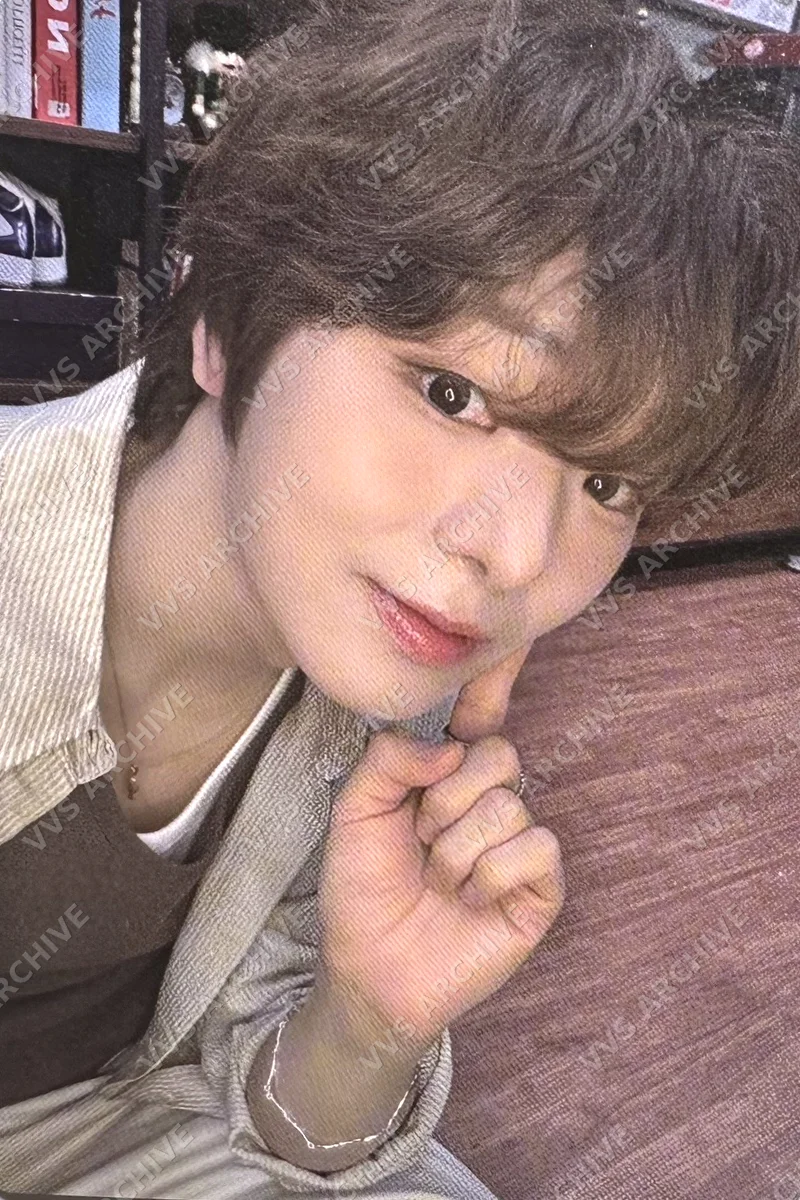
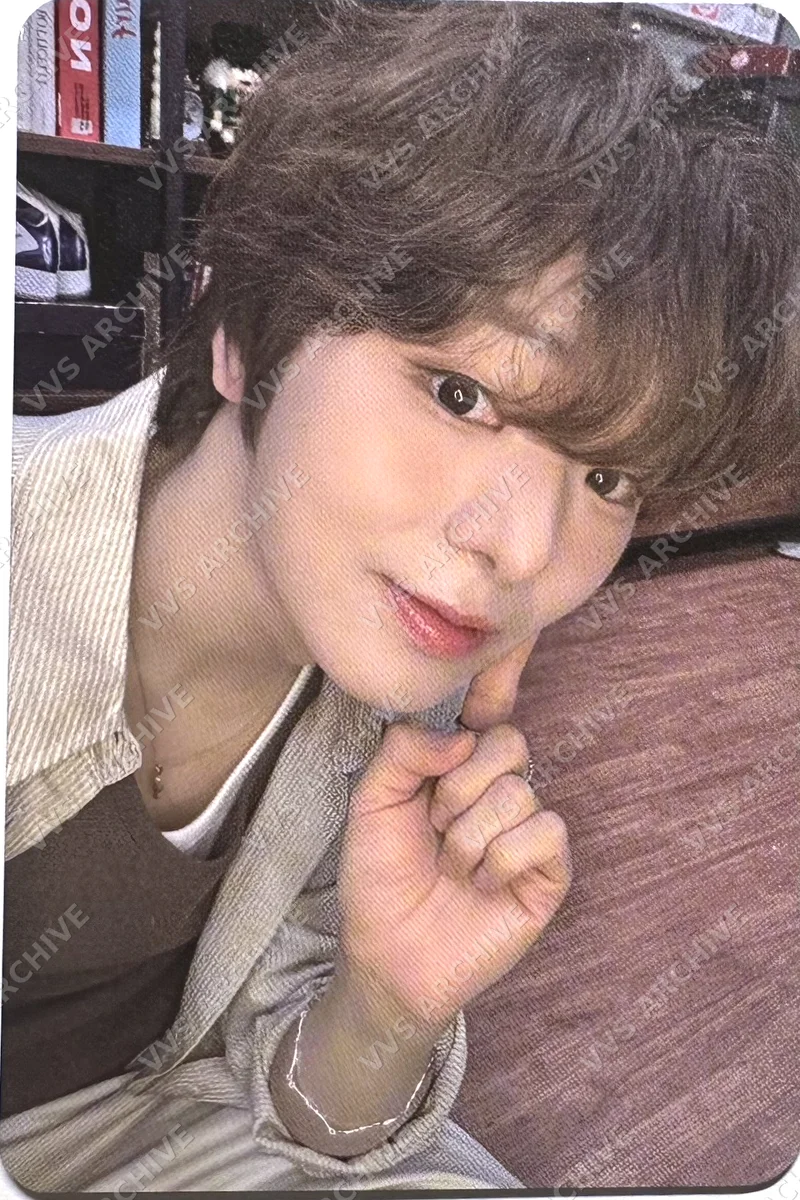
Crop

diff --git a/scripts/card_process.py b/scripts/card_process.py
@@ -29,18 +29,6 @@ def four_point_transform(image, pts):
     m = cv2.getPerspectiveTransform(rect, dst)
     return cv2.warpPerspective(image, m, (max_w, max_h))
 
-def center_crop_fallback(img):
-    h, w = img.shape[:2]
-    current_ratio = w / float(h)
-    if current_ratio > TARGET_ASPECT_RATIO:
-        target_w = int(h * TARGET_ASPECT_RATIO)
-        offset_x = (w - target_w) // 2
-        return img[:, offset_x:offset_x + target_w]
-    else:
-        target_h = int(w / TARGET_ASPECT_RATIO)
-        offset_y = (h - target_h) // 2
-        return img[offset_y:offset_y + target_h, :]
-
 def apply_white_balance(bgr_img):
     h, w = bgr_img.shape[:2]
     corner_h = int(h * 0.12)
@@ -84,7 +72,7 @@ def apply_white_balance(bgr_img):
     
     return np.clip(result, 0, 255).astype(np.uint8)
 
-def crop_card(image_input):
+def crop_card(image_input, debug_dir=None):
     if isinstance(image_input, str):
         img = cv2.imread(image_input)
     else:
@@ -97,41 +85,59 @@ def crop_card(image_input):
     img_area = h * w
     
     gray = cv2.cvtColor(img, cv2.COLOR_BGR2GRAY)
-    blurred = cv2.GaussianBlur(gray, (5, 5), 0)
+    filtered = cv2.bilateralFilter(gray, 11, 35, 35)
+    edged = cv2.Canny(filtered, 15, 60)
     
-    _, thresh = cv2.threshold(blurred, 0, 255, cv2.THRESH_BINARY_INV + cv2.THRESH_OTSU)
-    edged = cv2.Canny(blurred, 30, 150)
-    combined = cv2.bitwise_or(thresh, edged)
+    kernel = np.ones((21, 11), np.uint8)
+    closed = cv2.morphologyEx(edged, cv2.MORPH_CLOSE, kernel, iterations=3)
     
-    kernel = np.ones((5, 5), np.uint8)
-    closed = cv2.morphologyEx(combined, cv2.MORPH_CLOSE, kernel, iterations=3)
+    if debug_dir:
+        os.makedirs(debug_dir, exist_ok=True)
+        cv2.imwrite(os.path.join(debug_dir, "diag_filtered.jpg"), filtered)
+        cv2.imwrite(os.path.join(debug_dir, "diag_edged.jpg"), edged)
+        cv2.imwrite(os.path.join(debug_dir, "diag_closed.jpg"), closed)
     
     contours, _ = cv2.findContours(closed.copy(), cv2.RETR_EXTERNAL, cv2.CHAIN_APPROX_SIMPLE)
     
     card_crop = None
     
     if contours:
-        largest_c = max(contours, key=cv2.contourArea)
-        if cv2.contourArea(largest_c) > (img_area * 0.15):
-            peri = cv2.arcLength(largest_c, True)
-            approx = cv2.approxPolyDP(largest_c, 0.02 * peri, True)
-            
-            if len(approx) == 4:
-                pts = approx.reshape(4, 2).astype("float32")
-            else:
-                rect = cv2.minAreaRect(largest_c)
+        contours = sorted(contours, key=cv2.contourArea, reverse=True)
+        for c in contours:
+            area = cv2.contourArea(c)
+            if area > (img_area * 0.10):
+                hull = cv2.convexHull(c)
+                rect = cv2.minAreaRect(hull)
                 box = cv2.boxPoints(rect)
                 pts = box.astype("float32")
                 
-            warped = four_point_transform(img, pts)
-            crop_h, crop_w = warped.shape[:2]
-            ratio = min(crop_w, crop_h) / max(crop_w, crop_h)
-            
-            if 0.4 <= ratio <= 0.9:
-                card_crop = warped
+                w_box = np.linalg.norm(pts[0] - pts[1])
+                h_box = np.linalg.norm(pts[1] - pts[2])
+                if w_box == 0 or h_box == 0:
+                    continue
+                
+                ratio = min(w_box, h_box) / max(w_box, h_box)
+                
+                if 0.5 <= ratio <= 0.8:
+                    center = np.mean(pts, axis=0)
+                    # 調整為 0.99 以完美貼合實際邊緣
+                    pts = center + (pts - center) * 0.99
+                    
+                    card_crop = four_point_transform(img, pts)
+                    break
 
     if card_crop is None:
-        card_crop = center_crop_fallback(img)
+        target_aspect = 55.0 / 85.0
+        if (w / h) > target_aspect:
+            crop_h = int(h * 0.85)
+            crop_w = int(crop_h * target_aspect)
+        else:
+            crop_w = int(w * 0.85)
+            crop_h = int(crop_w / target_aspect)
+            
+        start_x = (w - crop_w) // 2
+        start_y = (h - crop_h) // 2
+        card_crop = img[start_y:start_y+crop_h, start_x:start_x+crop_w]
         
     if card_crop.shape[1] > card_crop.shape[0]:
         card_crop = cv2.rotate(card_crop, cv2.ROTATE_90_CLOCKWISE)
@@ -176,9 +182,9 @@ def process_card_image(input_path, card_id, output_dir="public/cards"):
     try:
         raw_img = cv2.imread(input_path)
         if raw_img is None:
+        
             raise ValueError(f"Unable to read image at: {input_path}")
         
-        # Flow: White Balance -> Crop -> Contrast/Brightness -> Resize -> Watermark
         balanced_bgr = apply_white_balance(raw_img)
         cropped_bgr = crop_card(balanced_bgr)
         
@@ -187,7 +193,6 @@ def process_card_image(input_path, card_id, output_dir="public/cards"):
         bright_bgr = cv2.convertScaleAbs(cropped_bgr, alpha=alpha, beta=beta)
         
         standardized_bgr = cv2.resize(bright_bgr, (800, 1200), interpolation=cv2.INTER_LANCZOS4)
-        
         final_pil = apply_watermark(standardized_bgr)
         
         os.makedirs(output_dir, exist_ok=True)
@@ -197,4 +202,3 @@ def process_card_image(input_path, card_id, output_dir="public/cards"):
     except Exception as e:
         print(f"Error processing card image {card_id}: {e}")
         return None
-        

diff --git a/scripts/test_card.py b/scripts/test_card.py
@@ -1,10 +1,14 @@
 import os
 from card_process import process_card_image
 import sys
+import traceback
+import cv2
+from card_process import crop_card, apply_white_balance
+
 
 # 1. 指定輸入與輸出路徑（直接使用成國這張圖，或更名為 test_input.jpg）
 input_path = sys.argv[1]
-output_path = 'test_ouput.jpg'
+output_path = 'test_ouput.webp'
 
 if not os.path.exists(input_path):
     print(f"找不到測試圖片，請確認根目錄下存在 test_input")
@@ -14,3 +18,20 @@ if not os.path.exists(input_path):
 print(f"正在處理: {input_path} ...")
 process_card_image(input_path, output_path)
 print(f"處理完成！請檢視: {output_path}")
+
+
+if __name__ == "__main__":
+    input_path = sys.argv[1] if len(sys.argv) > 1 else "test.webp"
+    output_path = sys.argv[2] if len(sys.argv) > 2 else "output.webp"
+    
+    try:
+        print(f"Processing: {input_path}")
+        cropped = crop_card(input_path)
+        print(f"Crop success, shape: {cropped.shape}")
+        
+        balanced = apply_white_balance(cropped)
+        cv2.imwrite(output_path, balanced)
+        print(f"Saved to: {output_path}")
+    except Exception as e:
+        print("Error encountered:")
+        traceback.print_exc()
